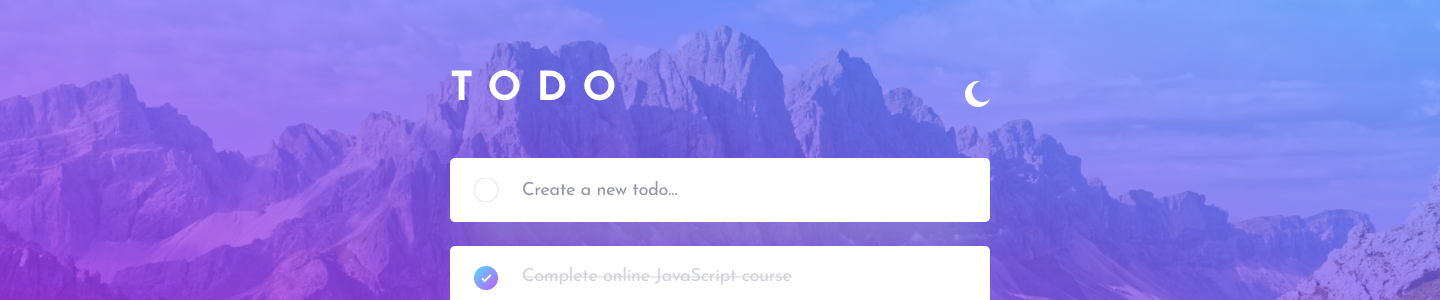
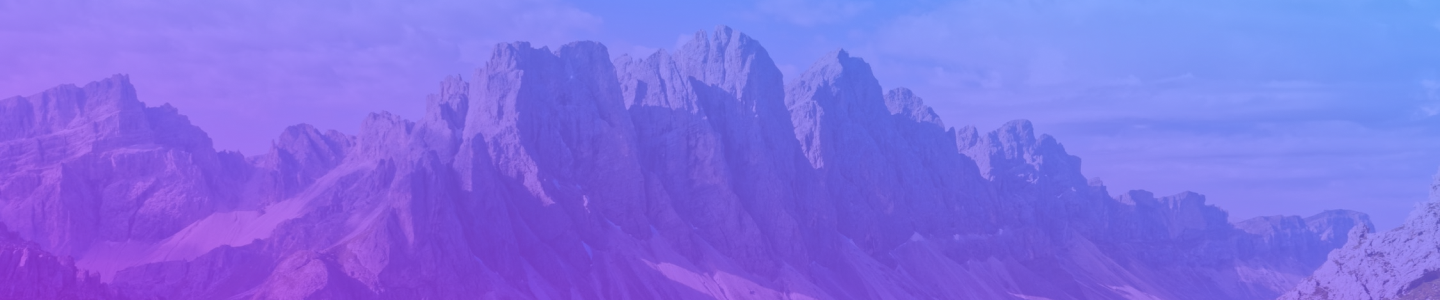
ultimos ajustes da responsividade no desktop

Changed region(s): [[0.3125, 0.51, 0.6875, 1.0], [0.3125, 0.21, 0.4375, 0.33], [0.6562, 0.27, 0.6875, 0.36]]

diff --git a/public/css/styles.css b/public/css/styles.css
@@ -7,15 +7,20 @@
 
 :root{
     --bg-header-mobile: url(../imagens/bg-header-mobile-light.png);
+    --bg-header-desktop: url(../imagens/bg-header-desktop-light.png);
     --input-box-shadow: rgba(194, 195, 214, 0.50);
     --input-color: #494C6B;
+    --placeholder-color: #9495a5;
     --button-color: #494c6b;
+    --button-color-hover: #393a4b;
     --bg-body: #E3E4F1;
     --bg-tarefas: #fff;
     --box-shadow: 0px 35px 50px -15px rgba(194, 195, 214, 0.50);
     --border-color: #e3e4f1;
     --text-color: #494c6b;
     --info-text-color: #9495a5;
+    --info-button-hover: #494c6b;
+    --infor-button-active: #347cfd;
 }
 
 body{
@@ -67,6 +72,10 @@ header form input {
     color: var(--input-color);
 }
 
+header form input::placeholder {
+    color: var(--placeholder-color);
+}
+
 header form button {
     padding: 0.75rem;
     border-radius: 0.3125rem;
@@ -76,7 +85,6 @@ header form button {
 }
 
 main {
-    min-height: calc(100vh - 12.5rem);
     padding-inline: 1.75rem;
 }
 
@@ -150,7 +158,47 @@ main {
     font-size: 0.875rem;
 }
 
+.botoes .active{
+    color: var(--infor-button-active);
+}
+
 @media(min-width: 1000px) {
+    header {
+        background-image: var(--bg-header-desktop);
+        height: 18.75rem;
+        padding-top: 4.37rem;
+    }
+
+    header div div{
+        margin-bottom: 3rem;
+    }
+
+    header form input{
+        padding: 1.25rem 1.5rem;
+        font-size: 1.125rem;
+    }
+
+    header form button{
+        font-size: 1.125rem;
+    }
+
+    header form button:hover{
+        cursor: pointer;
+        background: var(--button-color-hover);
+    }
+
+    .tarefas {
+        margin-top: -3rem ;
+    }
+
+    .tarefas .tarefa{
+        padding: 1.25rem 1.5rem;
+    }
+
+    .tarefa div{
+        font-size: 1.125rem;
+    }
+
     section.botoes {
         display: none;
     }
@@ -159,6 +207,14 @@ main {
         display: flex;
         padding: 0;
         margin: 0;
+    }
+
+    .informacoes {
+        font-size: 0.875rem;
+    }
+
+    .informacoes a:hover{
+        color: var(--info-button-hover);
     }
 
     .tarefa button {
